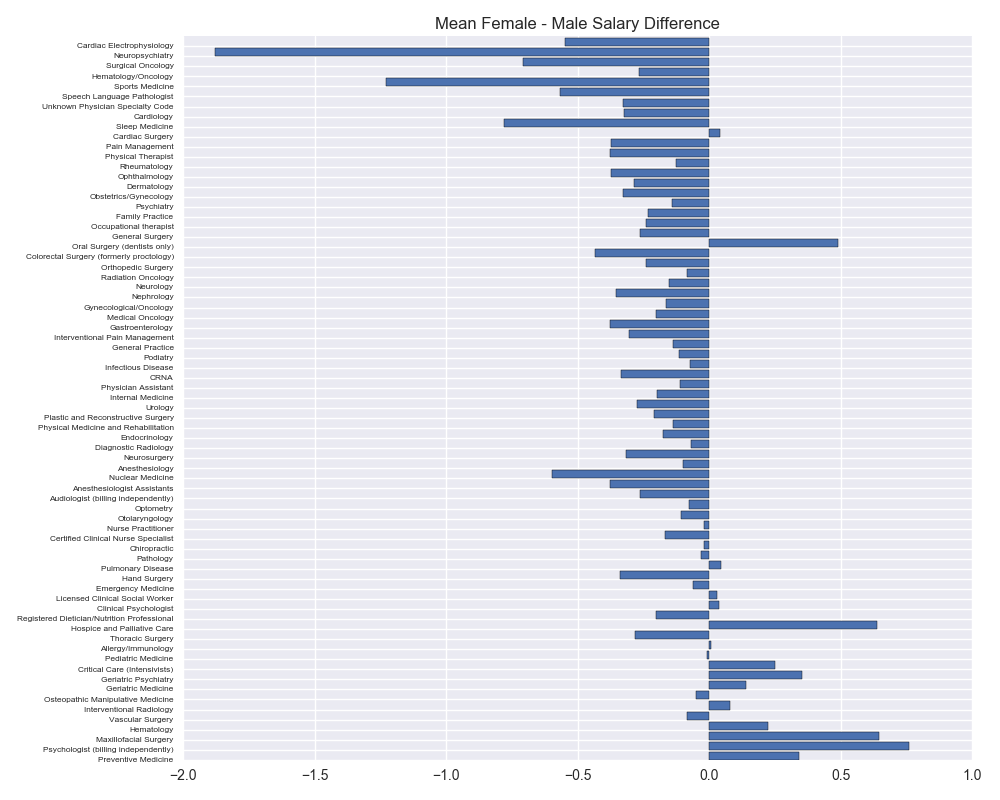
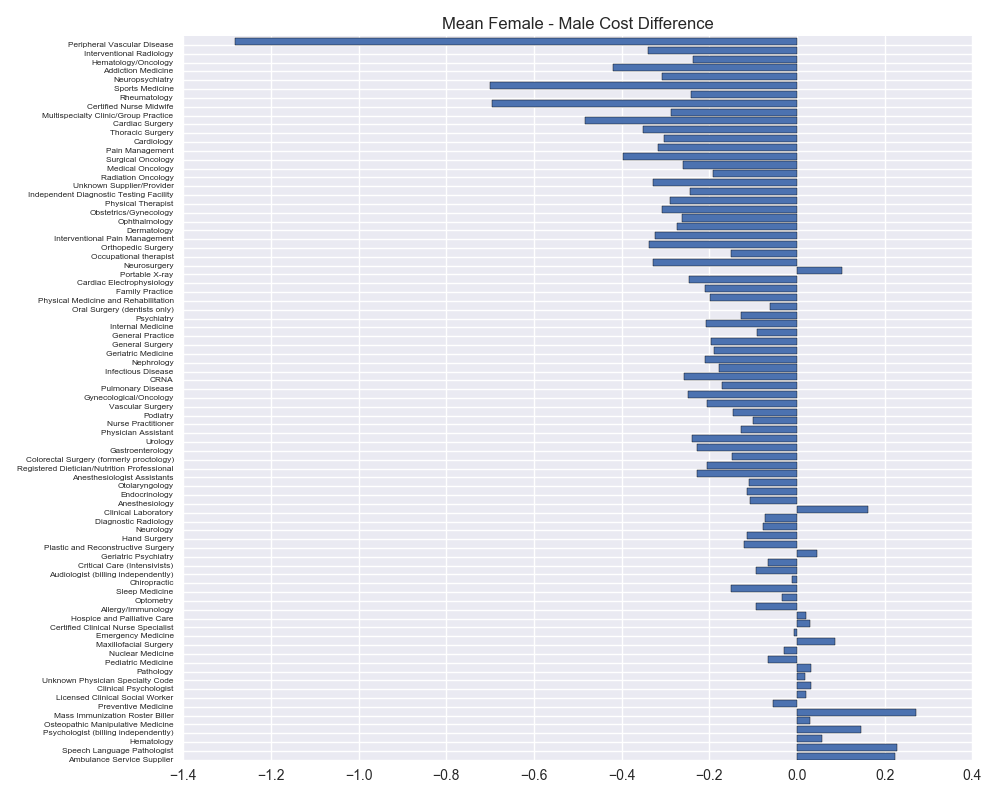
add bar plots for cost and provider gender

Changed region(s): [[0.217, 0.0, 0.93, 0.9688], [0.031, 0.0312, 0.186, 0.9688]]

diff --git a/cms_explore.py b/cms_explore.py
@@ -22,8 +22,8 @@ from nlp_process import vectorize_group
 #	group_by provider_state, provider_gender
 #       sort by most to least expensive provider
 #       find count by gender, find cost ratio by gender
-#   use NLP to find word associations w/ high or low cost, e.g. surgery
-#   other columns: patient_gender, age_groups vs. cost
+#    use NLP to find word associations w/ high or low cost, e.g. surgery
+#    other columns: patient_gender, age_groups vs. cost
 
 def make_plotdir(plotdir='cms_hist_plots/'):
     "make plot directory on file system"
@@ -214,14 +214,14 @@ def process_by_var(plotdir, dfgroup, col, var='nppes_provider_gender'):
     g_sort = filter_group_by_var(dfg, cols, stat='count_fractionF')
     make_bar_plot(get_col(g_sort,'count_fractionF'), plotdir, 'count_fraction', 'Count Fraction Female')
     g_sort = filter_group_by_var(dfg, cols, stat='median_FtoM')
-    make_bar_plot(get_col(g_sort,'median_FtoM'), plotdir, 'salary_ratio', 'Salary Ratio Female / Male')
+    make_bar_plot(get_col(g_sort,'median_FtoM'), plotdir, 'cost_ratio', 'Cost Ratio Female / Male')
 #   g_sort = filter_group_by_var(dfg, cols, stat='mean_diff_ratio')
-    make_bar_plot(get_col(g_sort,'mean_diff_ratio'), plotdir, 'mean_diff', 'Mean Female - Male Salary Difference')
-    make_scatter_plot(dfg['count_fractionF'], dfg['median_FtoM'], plotdir, 'salary_ratio_by_fraction', 'Female Count Fraction', 'Salary Ratio Female / Male', xlim=(0,1))
-    make_scatter_plot(dfg['count']['F'], dfg['median']['F'], plotdir, 'salary_by_count', 'Female Count', 'Log Salary', xlim=(-50,3500))
-    make_scatter_plot(dfg['count_fractionF'], dfg['median']['F'], plotdir, 'salary_by_fraction_count', 'Female Count Fraction', 'Log Salary', xlim=(0,1))
-    make_scatter_plot(dfg['count']['F'], dfg['median_FtoM'], plotdir, 'salary_ratio_by_count', 'Female Count', 'Salary Ratio Female / Male', xlim=(-50,3500))
-#   make_scatter_plot(dfg['median_FtoM'], dfg['median']['F'], plotdir, 'salary_ratio_by_salary', 'Salary Ratio Female / Male', 'Log Salary')
+    make_bar_plot(get_col(g_sort,'mean_diff_ratio'), plotdir, 'mean_diff', 'Mean Female - Male Cost Difference')
+    make_scatter_plot(dfg['count_fractionF'], dfg['median_FtoM'], plotdir, 'cost_ratio_by_fraction', 'Female Count Fraction', 'Cost Ratio Female / Male', xlim=(0,1))
+    make_scatter_plot(dfg['count']['F'], dfg['median']['F'], plotdir, 'cost_by_count', 'Female Provider Count', 'Log10 Cost', xlim=(-1000,70000))
+    make_scatter_plot(dfg['count_fractionF'], dfg['median']['F'], plotdir, 'cost_by_fraction_count', 'Female Count Fraction', 'Log10 Cost', xlim=(0,1))
+    make_scatter_plot(dfg['count']['F'], dfg['median_FtoM'], plotdir, 'cost_ratio_by_count', 'Female Provider Count', 'Cost Ratio Female / Male', xlim=(-1000,70000))
+#   make_scatter_plot(dfg['median_FtoM'], dfg['median']['F'], plotdir, 'cost_ratio_by_cost', 'Salary Ratio Female / Male', 'Log Salary')
 #   print('\ntop median_FtoM')
 #   g_sort = filter_group_by_var(dfg, cols, stat='median_FtoM')
 # to do: plot gender columns
@@ -232,7 +232,7 @@ def get_col(df, col):
     return df[col].dropna()
 
 def make_bar_plot(ser, plotdir, fname, label):
-    "make bar plot"
+    "make bar plot from series"
     plt.clf()
     f = plt.figure(figsize=(10,8))
     ax = f.add_subplot(111)
@@ -244,7 +244,6 @@ def make_bar_plot(ser, plotdir, fname, label):
     ax.set_ylim([0, ser.shape[0]])
     plt.title(label)
     plt.tight_layout()
-#   plt.subplots_adjust(top=0.88)
     pname = '%sbar_%s.png' % (plotdir, fname)
     plt.savefig(pname)
     print('saved plot %s' % pname)
@@ -279,15 +278,22 @@ def calc_par_group(df, agg_fns, pars, cols):
 
 def calc_par_groups(df):
     "calculate series of grouped parameters, printed by column"
-    plotdir = make_plotdir(plotdir='cms_gender_plots/')
+    plotdir = make_plotdir(plotdir='cms_cost_plots/')
     agg_fns = ['count','median','mean','std']
     p_group = calc_par_group(df, agg_fns, ['provider_type'], ['pay_per_person','pay_per_service'])
 #   vectorize_group(p_group['pay_per_service'])
 
     print('\ntop pay_per_service')
-    filter_group_by_var(p_group['pay_per_service'], agg_fns, stat='median')
+    p_sort = filter_group_by_var(p_group['pay_per_service'], agg_fns, stat='median')
+    make_bar_plot(get_col(p_sort,'median'), plotdir, 'pay_per_service', 'Median Log10 Pay Per Service')
     print('\ntop pay_per_person')
-    filter_group_by_var(p_group['pay_per_person'], agg_fns, stat='median')
+    p_sort = filter_group_by_var(p_group['pay_per_person'], agg_fns, stat='median')
+    make_bar_plot(get_col(p_sort,'median'), plotdir, 'pay_per_person', 'Median Log10 Pay Per Person')
+#   p_sort = filter_group_by_var(p_group['pay_per_person'], agg_fns, stat='count')
+    make_bar_plot(get_col(p_sort,'count'), plotdir, 'pay_per_person_count', 'Count Per Specialist')
+    make_scatter_plot(get_col(p_sort,'count'), get_col(p_sort,'median'), plotdir, 'pay_per_person_by_count', 'Count', 'Log10 Cost Per Person', xlim=(-1000,100000))
+
+    plotdir = make_plotdir(plotdir='cms_gender_plots/')
     g_group = calc_par_group(df, agg_fns, ['provider_type','nppes_provider_gender'], ['pay_per_person'])
     g_group = process_by_var(plotdir, g_group, col='pay_per_person', var='nppes_provider_gender')
 
